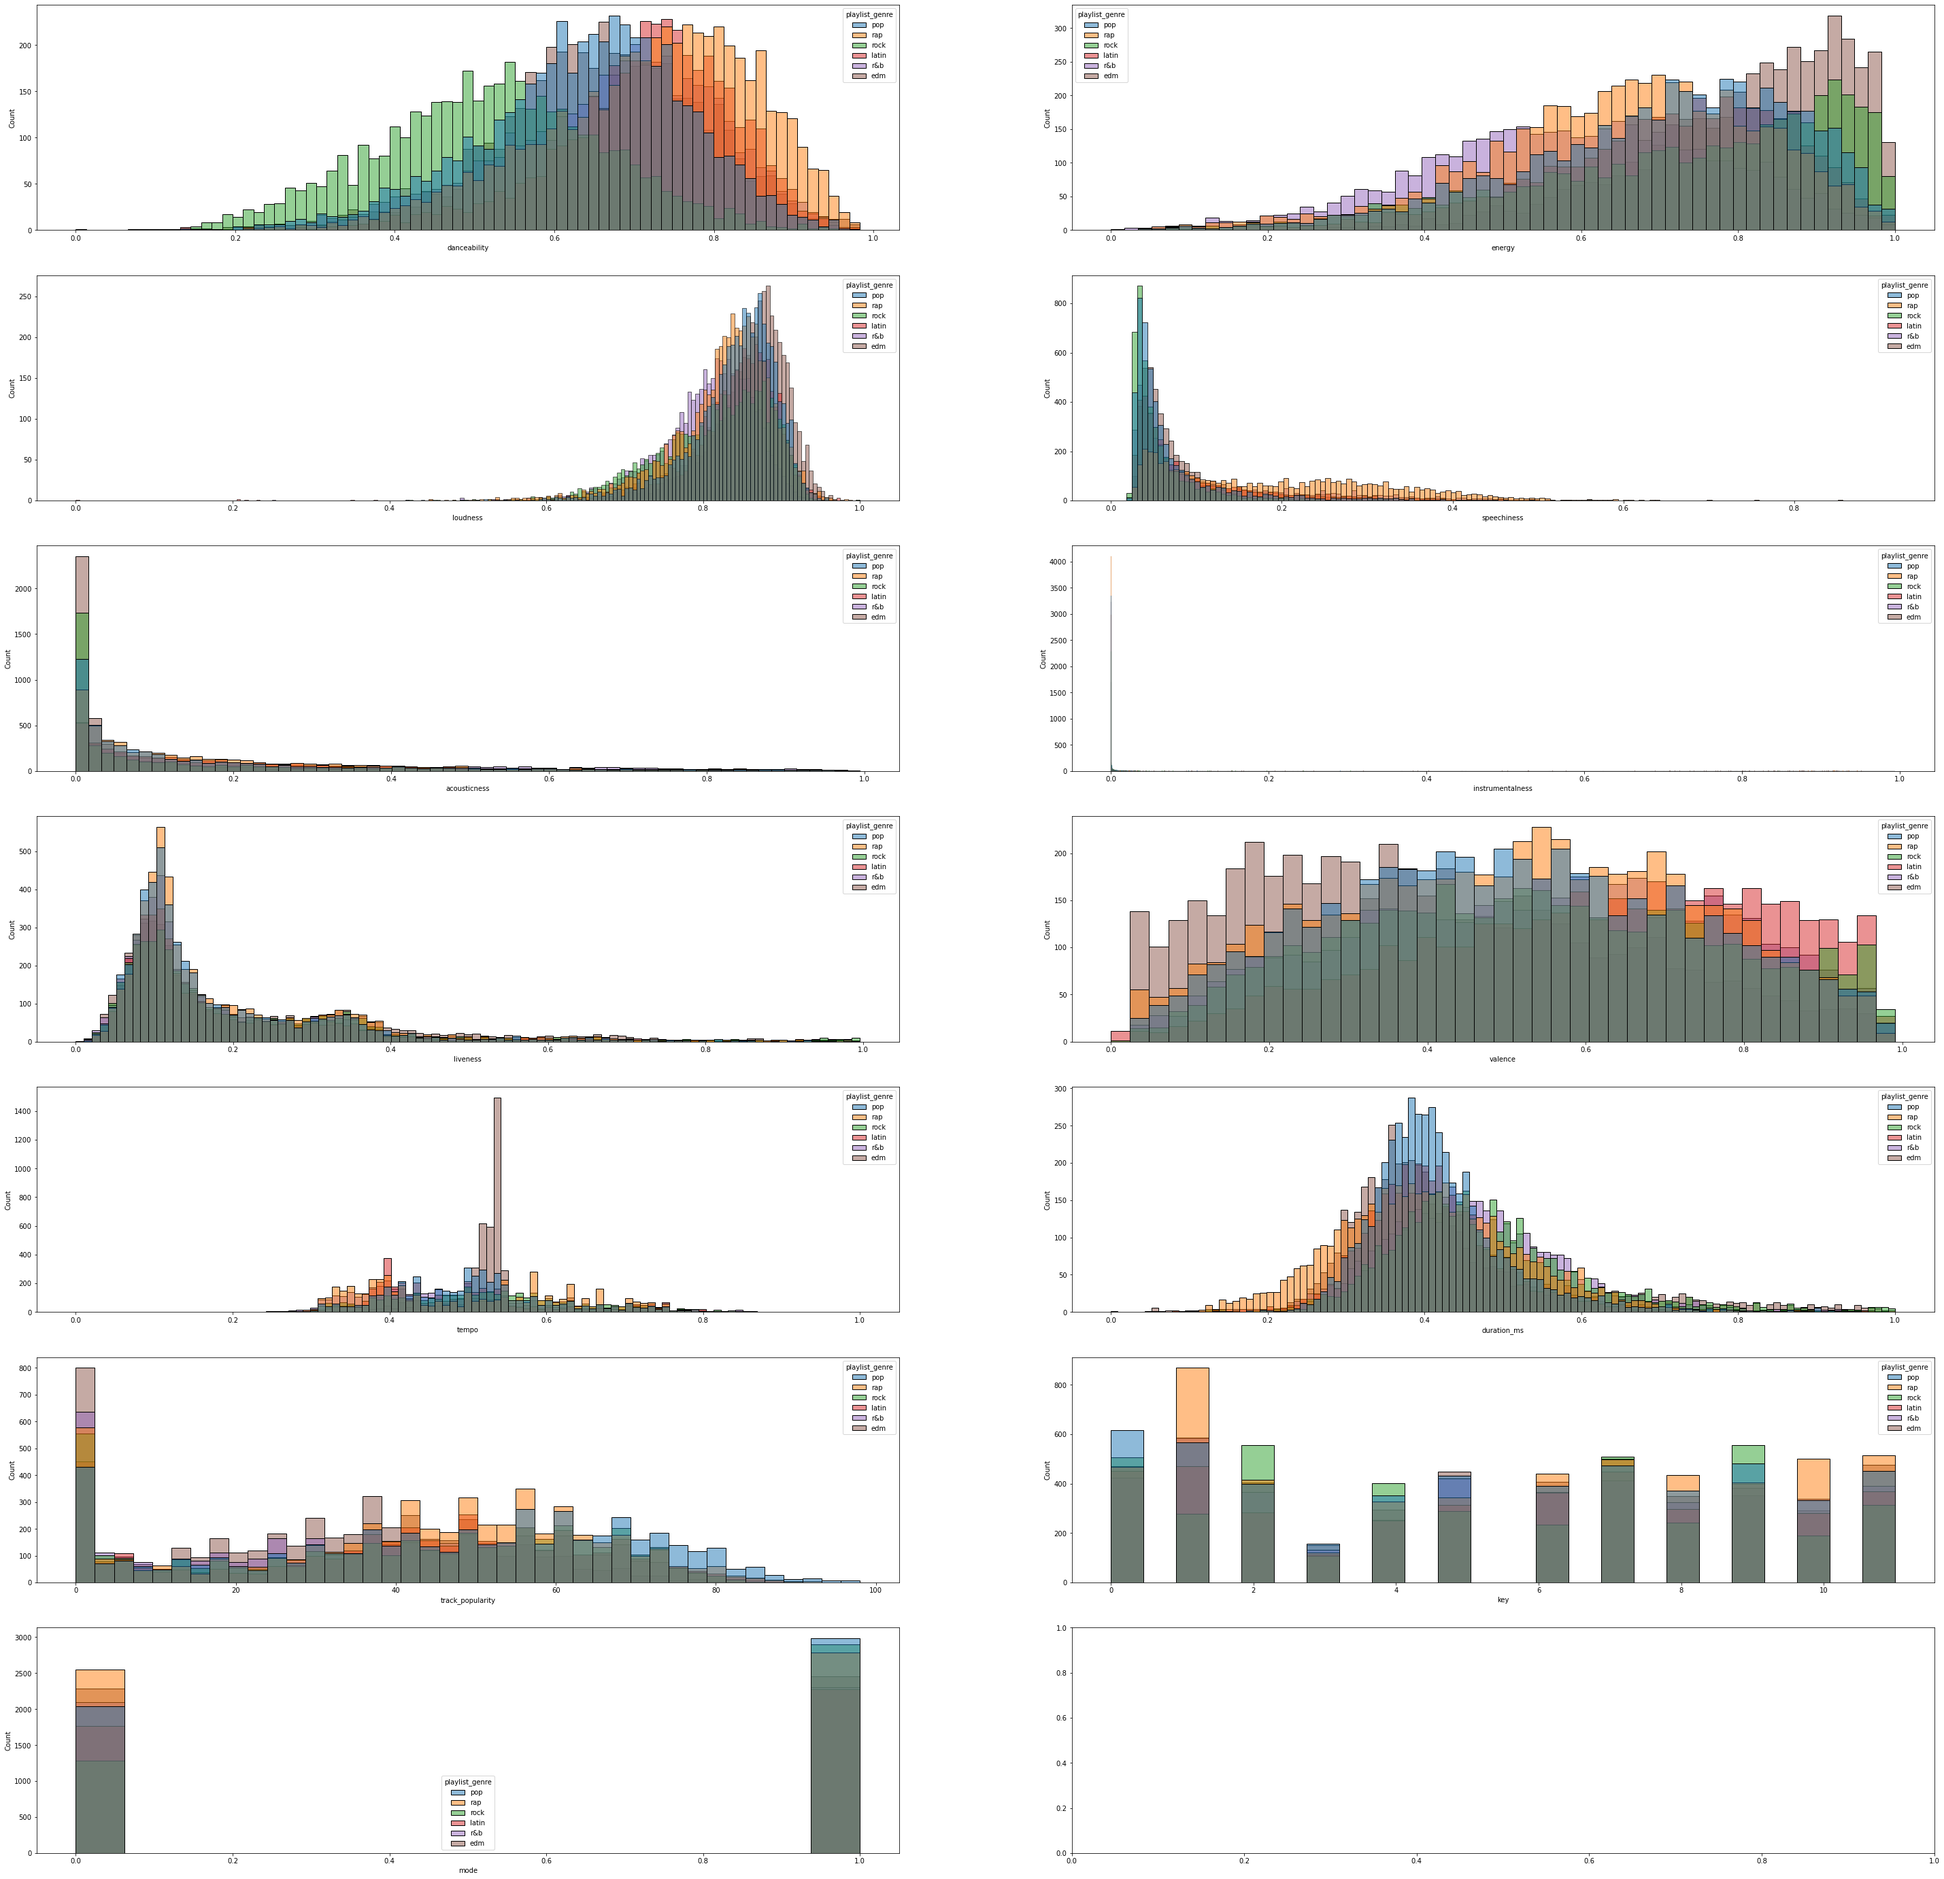
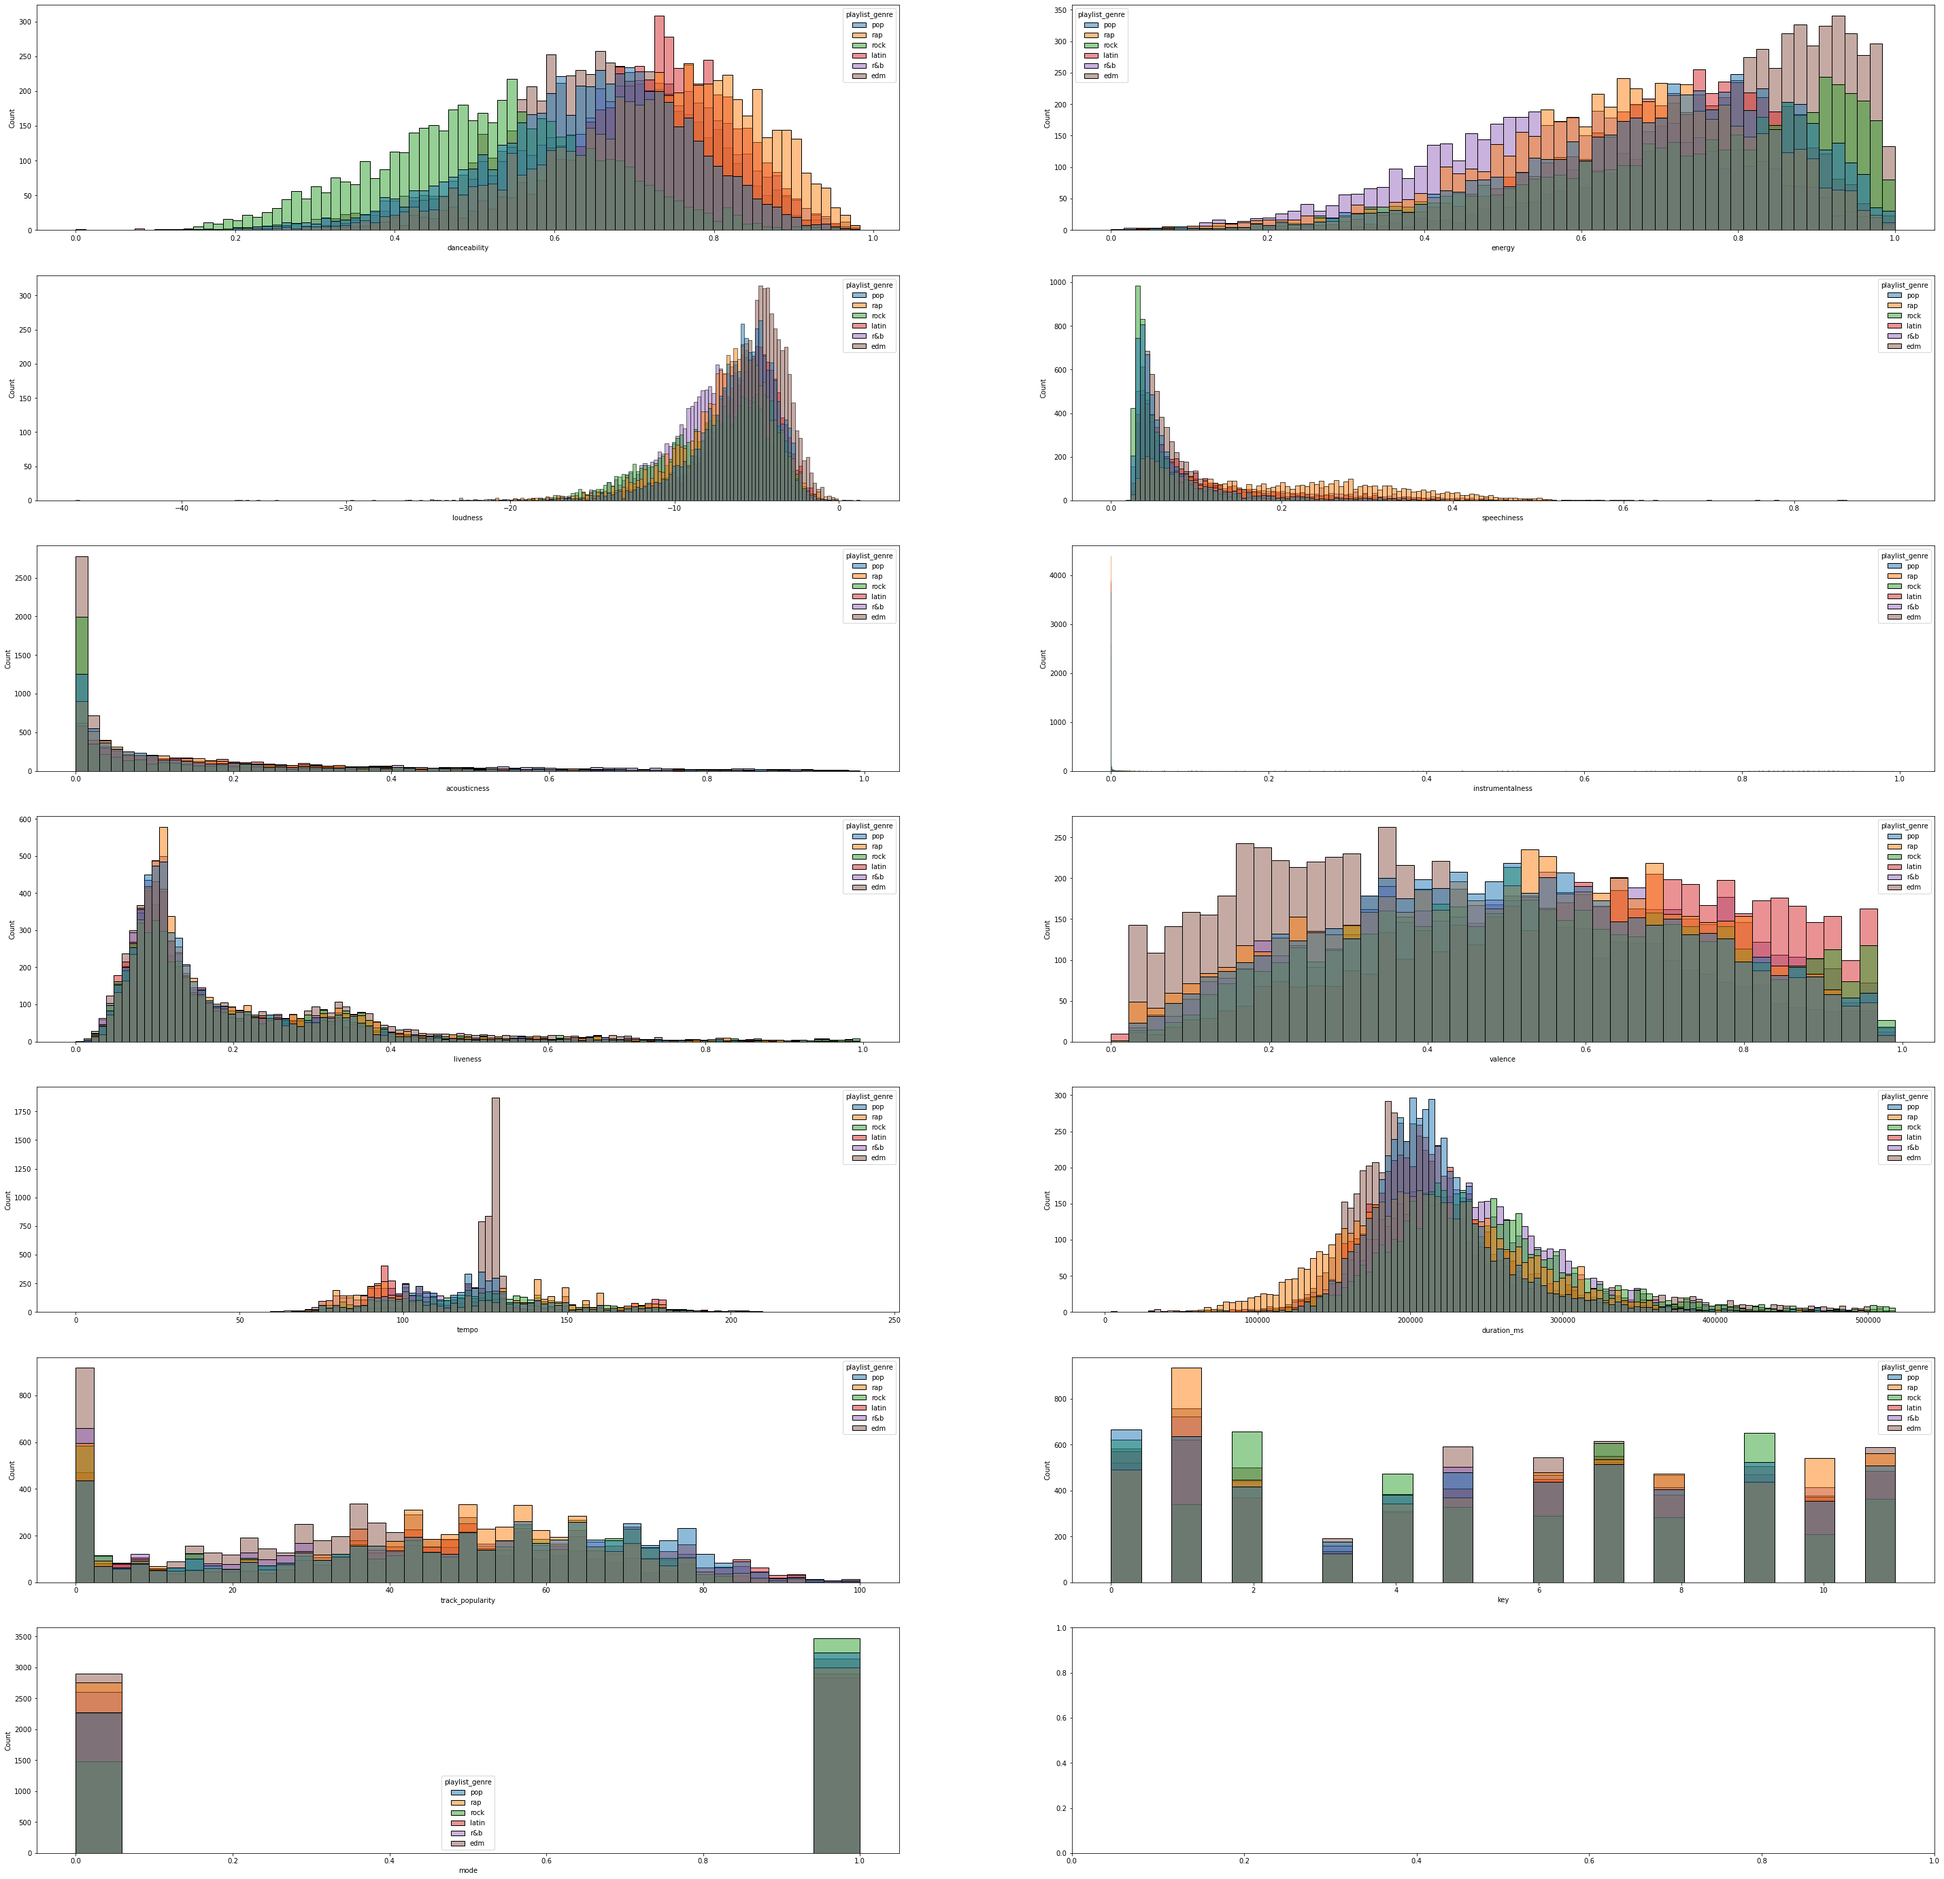
Boxplot

diff --git a/eda.py b/eda.py
@@ -1,4 +1,40 @@
+import pandas as pd
+from matplotlib import pyplot as plt
+import seaborn as sns
 from sklearn.preprocessing import MinMaxScaler
+
+
+def graph_distributions(df):
+    fig, axes = plt.subplots(7, 2, figsize = (50, 50))
+    sns.histplot(df, x = "danceability", hue = "playlist_genre", ax = axes[0][0])
+    sns.histplot(df, x = "energy", hue = "playlist_genre", ax = axes[0][1])
+    sns.histplot(df, x = "loudness", hue = "playlist_genre", ax = axes[1][0])
+    sns.histplot(df, x = "speechiness", hue = "playlist_genre", ax = axes[1][1])
+    sns.histplot(df, x = "acousticness", hue = "playlist_genre", ax = axes[2][0])
+    sns.histplot(df, x = "instrumentalness", hue = "playlist_genre", ax = axes[2][1])
+    sns.histplot(df, x = "liveness", hue = "playlist_genre", ax = axes[3][0])
+    sns.histplot(df, x = "valence", hue = "playlist_genre", ax = axes[3][1])
+    sns.histplot(df, x = "tempo", hue = "playlist_genre", ax = axes[4][0])
+    sns.histplot(df, x = "duration_ms", hue = "playlist_genre", ax = axes[4][1])
+    sns.histplot(df, x = "track_popularity", hue = "playlist_genre", ax = axes[5][0])
+    sns.histplot(df, x = "key", hue = "playlist_genre", ax = axes[5][1])
+    sns.histplot(df, x = "mode", hue = "playlist_genre", ax = axes[6][0])
+    
+def graph_boxplots(df):
+    fig, axes = plt.subplots(7, 2, figsize = (50, 50))
+    sns.boxplot(df, x = "danceability", hue = "playlist_genre", whis = (0.20, 0.80), ax = axes[0][0])
+    sns.boxplot(df, x = "energy", hue = "playlist_genre", whis = (0.20, 0.80), ax = axes[0][1])
+    sns.boxplot(df, x = "loudness", hue = "playlist_genre", whis = (0.20, 0.80), ax = axes[1][0])
+    sns.boxplot(df, x = "speechiness", hue = "playlist_genre", whis = (0.20, 0.80), ax = axes[1][1])
+    sns.boxplot(df, x = "acousticness", hue = "playlist_genre", whis = (0.20, 0.80), ax = axes[2][0])
+    sns.boxplot(df, x = "instrumentalness", hue = "playlist_genre", whis = (0.20, 0.80), ax = axes[2][1])
+    sns.boxplot(df, x = "liveness", hue = "playlist_genre", whis = (0.20, 0.80), ax = axes[3][0])
+    sns.boxplot(df, x = "valence", hue = "playlist_genre", whis = (0.20, 0.80), ax = axes[3][1])
+    sns.boxplot(df, x = "tempo", hue = "playlist_genre", whis = (0.20, 0.80), ax = axes[4][0])
+    sns.boxplot(df, x = "duration_ms", hue = "playlist_genre", whis = (0.20, 0.80), ax = axes[4][1])
+    sns.boxplot(df, x = "track_popularity", hue = "playlist_genre", whis = (0.20, 0.80), ax = axes[5][0])
+    sns.boxplot(df, x = "key", hue = "playlist_genre", whis = (0.20, 0.80), ax = axes[5][1])
+    sns.boxplot(df, x = "mode", hue = "playlist_genre", whis = (0.20, 0.80), ax = axes[6][0])
 
 def clean_data(df):
     df = df.drop(columns=['playlist_id', 'playlist_name', 'playlist_subgenre'])
@@ -14,18 +50,23 @@ def clean_data(df):
 
     df = df.drop(columns = ["instrumentalness", "track_id", "track_album_id", "track_album_name", "track_album_release_date"])
 
+    # Remove outliers for each genre
     labels = df["playlist_genre"].unique()
     numeric_categories = ["danceability", "energy", "loudness", "speechiness", "acousticness", "liveness", "valence", "tempo", "duration_ms"]
     for label in labels:
         genre_group = df.loc[df['playlist_genre'] == label]
         remove_indices = []
         for category in numeric_categories:
-            q75 = genre_group[category].quantile(0.80)
-            q25 = genre_group[category].quantile(0.20)
-            iqr = q75 - q25
-            remove_indices = genre_group.loc[genre_group[category] >= q75 + 1.5 * iqr].index.tolist()
-            remove_indices.extend(genre_group.loc[genre_group[category] <= q25 - 1.5 * iqr].index.tolist())
+            q80 = genre_group[category].quantile(0.80)
+            q20 = genre_group[category].quantile(0.20)
+            iqr = q80 - q20
+            remove_indices = genre_group.loc[genre_group[category] >= q80 + 1.5 * iqr].index.tolist()
+            remove_indices.extend(genre_group.loc[genre_group[category] <= q20 - 1.5 * iqr].index.tolist())
         df = df.drop(remove_indices)
         df = df.reset_index(drop = True)
     
     return df
+
+df = pd.read_csv("spotify_songs.csv")
+graph_distributions(df)
+graph_boxplots(df)
